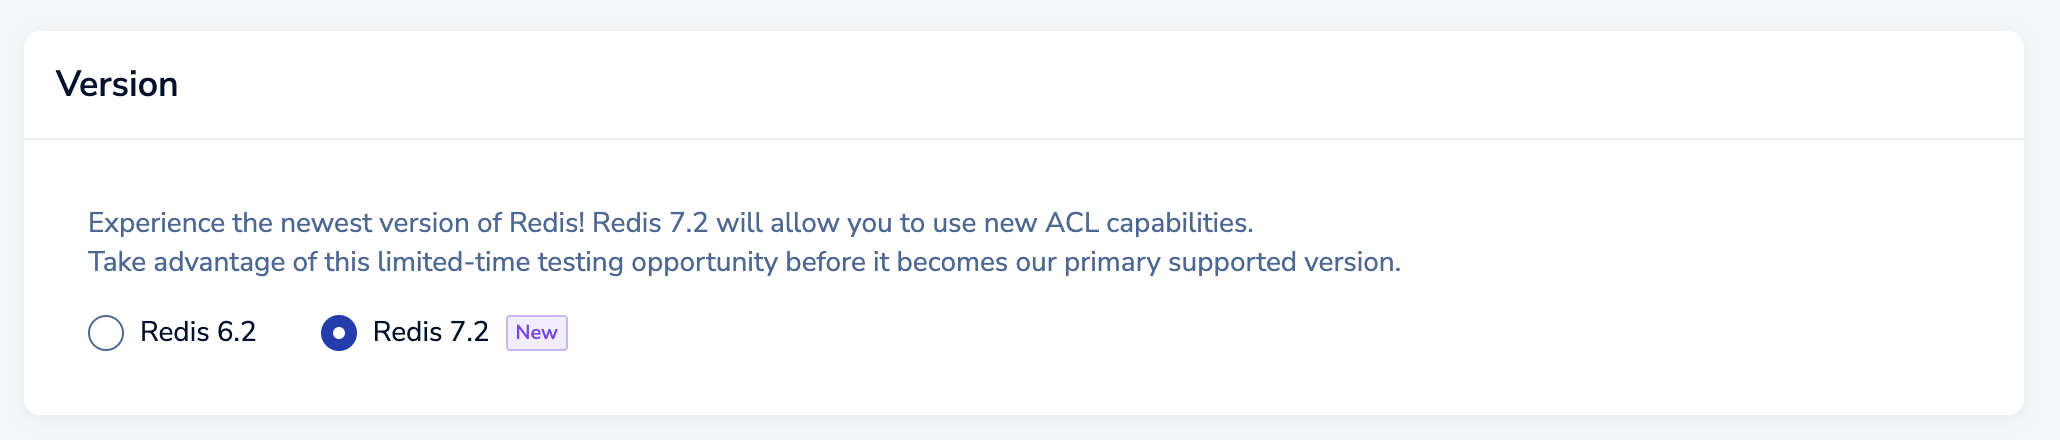
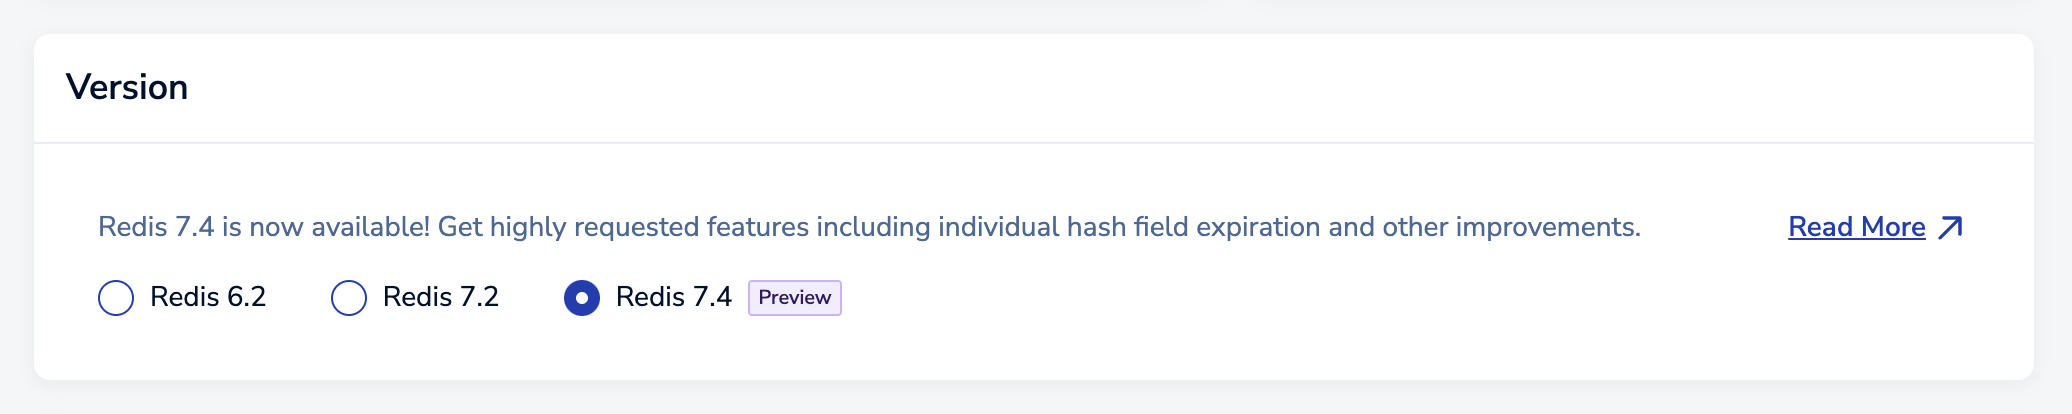
RC: 7.4 Pro preview changes

diff --git a/content/operate/rc/databases/create-database/create-pro-database-new.md b/content/operate/rc/databases/create-database/create-pro-database-new.md
@@ -105,9 +105,11 @@ The following settings are defined in the **General settings** of the **Setup** 
 
 #### Version {#version}
 
-{{<image filename="images/rc/subscription-new-flexible-version-section.png" width="75%" alt="Version selection between Redis 6.2 and 7.2" >}}
+{{<image filename="images/rc/subscription-new-flexible-version-section.png" width="75%" alt="Version selection between Redis 6.2, 7.2, and 7.4." >}}
 
-The **Version** section lets you choose the Redis version of your databases. Choose **Redis 7.2** if you want to use the latest advanced features of Redis.
+The **Version** section lets you choose the Redis version of your databases. Choose **Redis 7.2** if you want to use the latest stable version of Redis, or select **Redis 7.4** for the Redis 7.4 Preview. 
+
+Redis 7.4 offers hash field expiration and other feature set improvements. For more information on the changes in Redis 7.4, see the [Redis 7.4 release notes](https://redis.io/blog/announcing-redis-community-edition-and-redis-stack-74).
 
 #### Advanced options {#advanced-options}
 

diff --git a/content/operate/rc/changelog/september-2024.md b/content/operate/rc/changelog/september-2024.md
@@ -1,0 +1,21 @@
+---
+Title: Redis Cloud changelog (September 2024)
+alwaysopen: false
+categories:
+- docs
+- operate
+- rc
+description: New features, enhancements, and other changes added to Redis Cloud during
+  September 2024.
+highlights: Redis 7.4 Preview on Redis Cloud Pro
+linktitle: July 2024
+weight: 44
+---
+
+## New Features
+
+### Redis 7.4 Preview on Redis Cloud Pro
+
+A preview of Redis 7.4 is now available on [Redis Cloud Pro databases]({{< relref "/operate/rc/databases/create-database/create-pro-database-new" >}}).
+
+Redis 7.4 offers hash field expiration and other feature set improvements. For more information on the changes in Redis 7.4, see the [Redis 7.4 release blog post](https://redis.io/blog/announcing-redis-community-edition-and-redis-stack-74).
